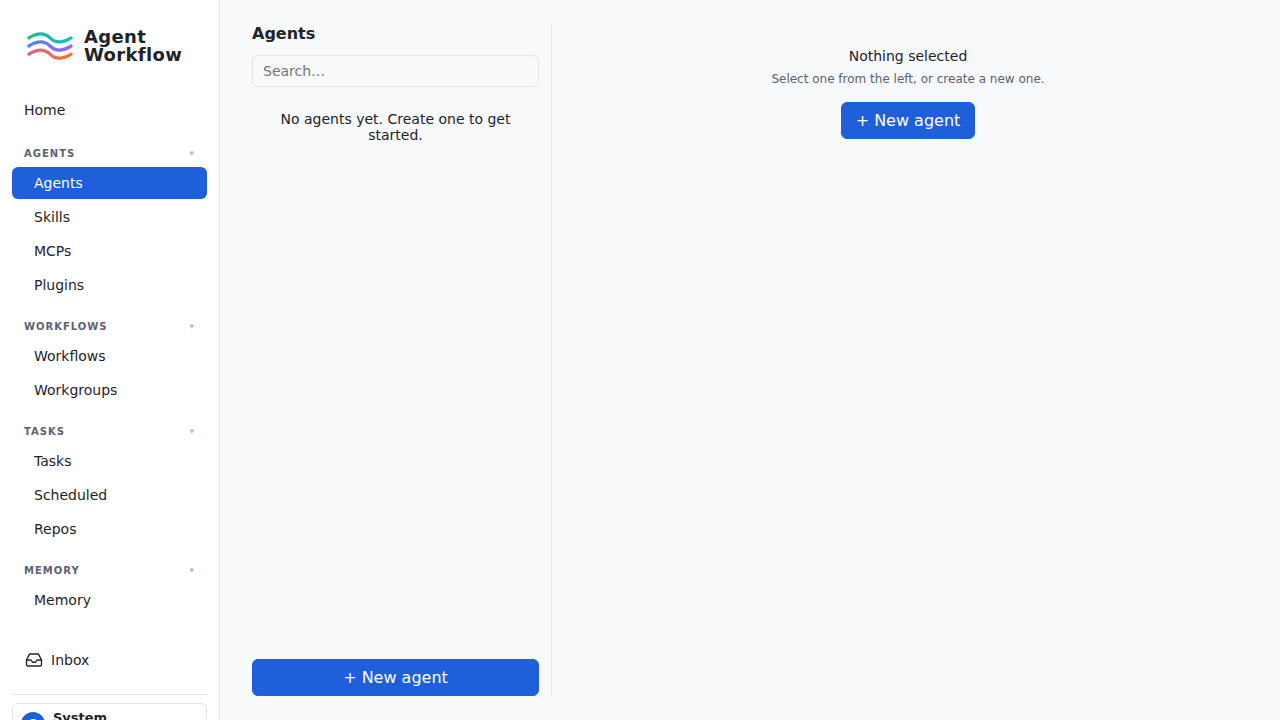
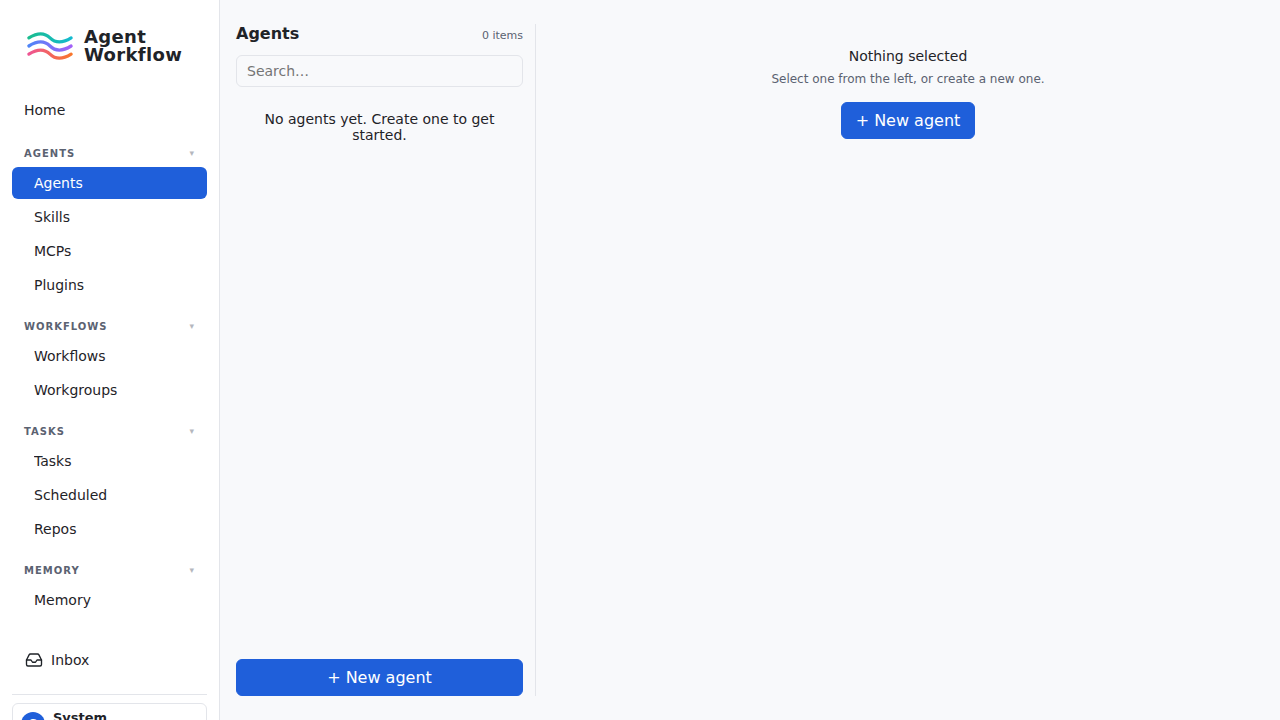
test(inbox): 稳定视觉主题并回填 Linux 基线
Assisted-By: OpenAI Codex (gpt-5)

diff --git a/e2e/visual-regression.spec.ts b/e2e/visual-regression.spec.ts
@@ -57,6 +57,20 @@ async function primeAuth(page: Page, d: DaemonHandle): Promise<void> {
   )
 }
 
+async function setDaemonTheme(theme: 'light' | 'dark'): Promise<void> {
+  const response = await fetch(`${daemon.baseUrl}/api/config`, {
+    method: 'PUT',
+    headers: {
+      Authorization: `Bearer ${daemon.token}`,
+      'Content-Type': 'application/json',
+    },
+    body: JSON.stringify({ theme }),
+  })
+  if (!response.ok) {
+    throw new Error(`visual-regression: failed to set ${theme} theme (${response.status})`)
+  }
+}
+
 /**
  * Per-test snapshot config. Threshold 0.2% per RFC-054 plan §risk 9
  * (font subpixel jitter). `animations: 'disabled'` freezes CSS
@@ -173,9 +187,10 @@ test.describe('RFC-054 W2-5 — visual regression on key pages', () => {
 
   test('RFC-195 inbox empty dialog (light)', async ({ page }) => {
     await page.emulateMedia({ colorScheme: 'light' })
+    await setDaemonTheme('light')
     await primeAuth(page, daemon)
     await page.goto(`${daemon.baseUrl}/agents`)
-    await page.evaluate(() => document.documentElement.setAttribute('data-theme', 'light'))
+    await expect(page.locator('html')).toHaveAttribute('data-theme', 'light')
     await page.getByTestId('inbox-footer-button').click()
     const dialog = page.getByRole('dialog', { name: 'Inbox' })
     await expect(dialog).toContainText('Nothing waiting')
@@ -184,10 +199,11 @@ test.describe('RFC-054 W2-5 — visual regression on key pages', () => {
 
   test('RFC-195 inbox populated dialog (light)', async ({ page }) => {
     await page.emulateMedia({ colorScheme: 'light' })
+    await setDaemonTheme('light')
     await routePopulatedInbox(page)
     await primeAuth(page, daemon)
     await page.goto(`${daemon.baseUrl}/agents`)
-    await page.evaluate(() => document.documentElement.setAttribute('data-theme', 'light'))
+    await expect(page.locator('html')).toHaveAttribute('data-theme', 'light')
     await page.getByTestId('inbox-footer-button').click()
     await expect(page.getByTestId('inbox-row-review-visual-review-0')).toBeVisible()
     await expect(page).toHaveScreenshot('inbox-populated-light.png', SNAPSHOT_OPTS)
@@ -195,10 +211,11 @@ test.describe('RFC-054 W2-5 — visual regression on key pages', () => {
 
   test('RFC-195 inbox populated dialog (dark)', async ({ page }) => {
     await page.emulateMedia({ colorScheme: 'dark' })
+    await setDaemonTheme('dark')
     await routePopulatedInbox(page)
     await primeAuth(page, daemon)
     await page.goto(`${daemon.baseUrl}/agents`)
-    await page.evaluate(() => document.documentElement.setAttribute('data-theme', 'dark'))
+    await expect(page.locator('html')).toHaveAttribute('data-theme', 'dark')
     await page.getByTestId('inbox-footer-button').click()
     await expect(page.getByTestId('inbox-row-review-visual-review-0')).toBeVisible()
     await expect(page).toHaveScreenshot('inbox-populated-dark.png', SNAPSHOT_OPTS)